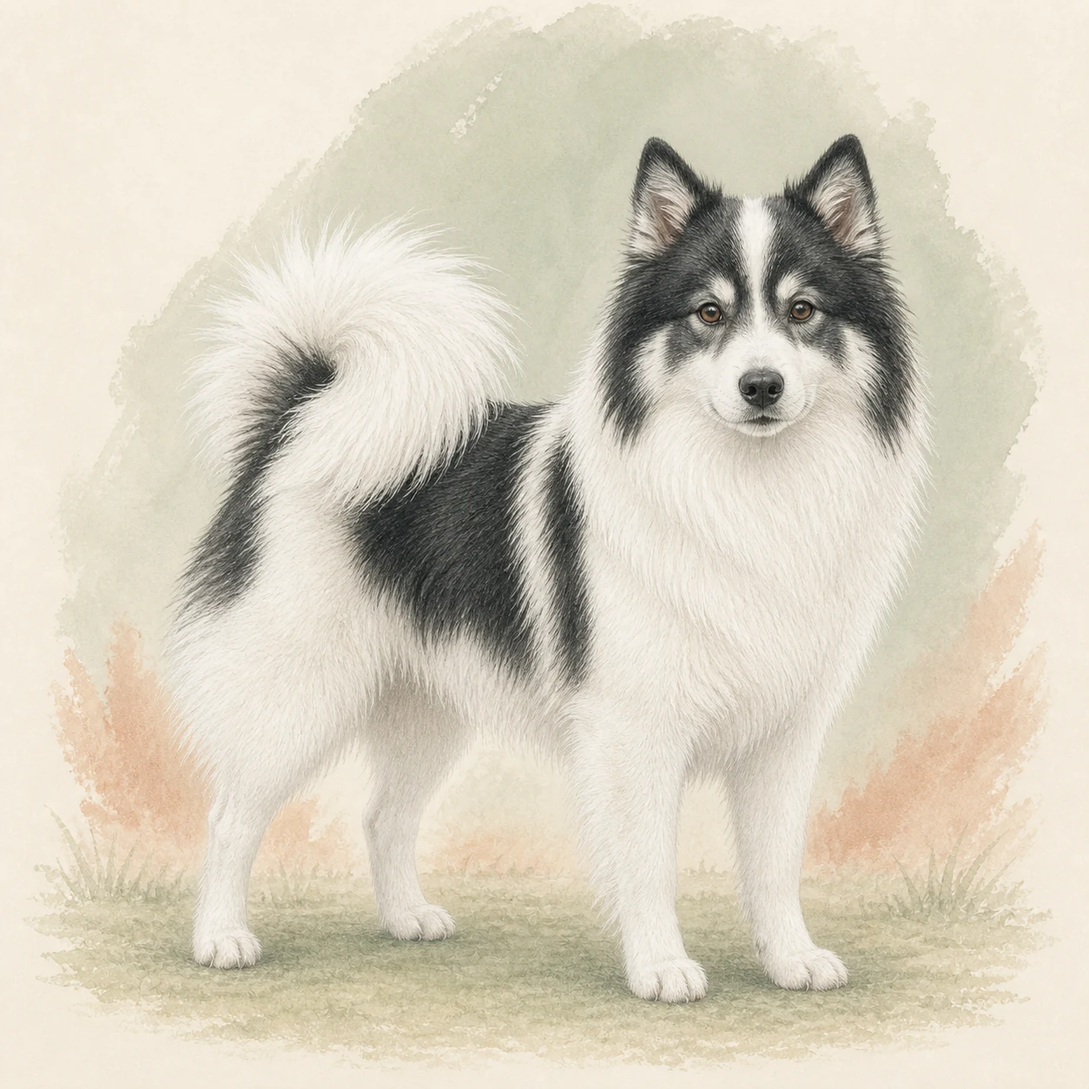
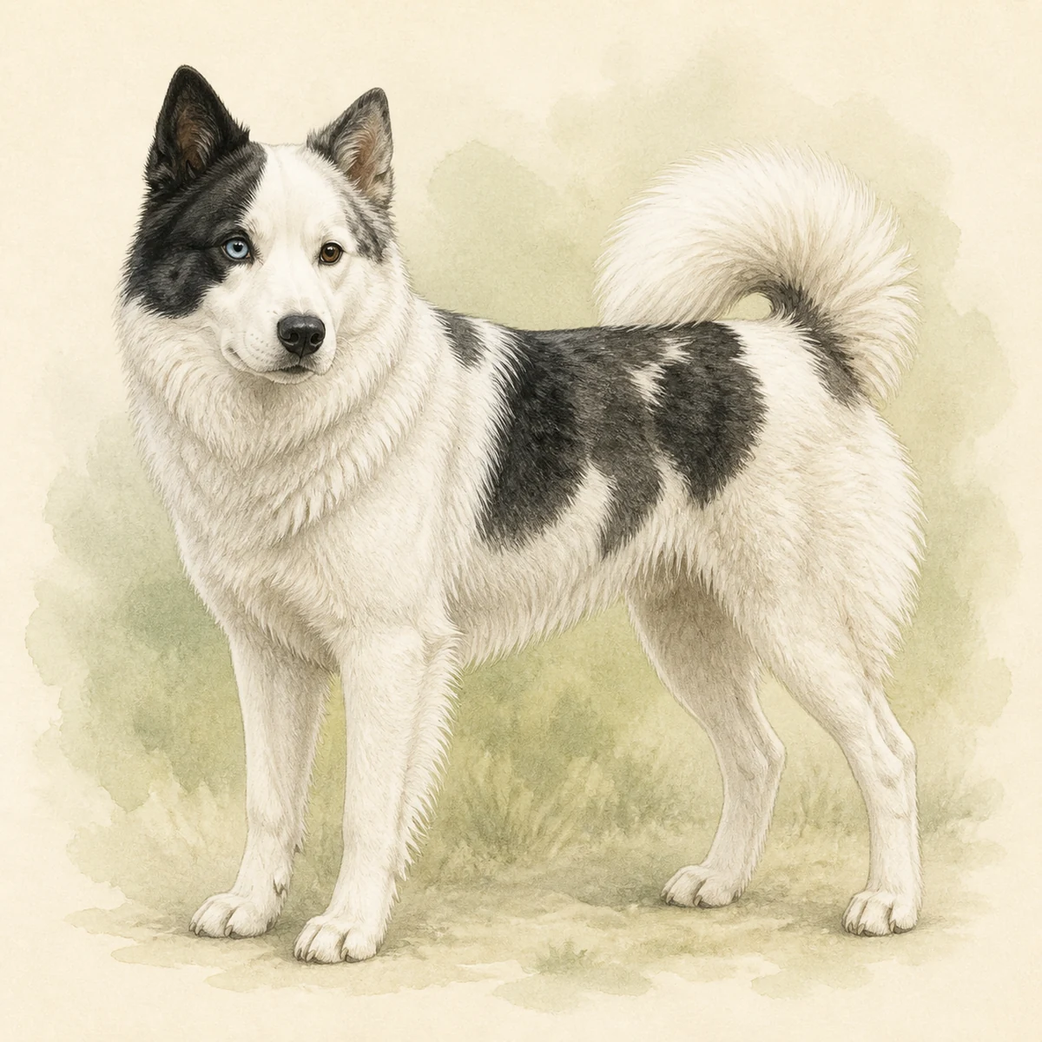
Complete Yakutian Laika breed page

diff --git a/src/content/breeds/detail-batch-k.ts b/src/content/breeds/detail-batch-k.ts
@@ -22,7 +22,7 @@ const seeds: Seed[] = [
   { slug: "kishu", nameKo: "키슈견", nameEn: "Kishu", group: "spitz-primitive", tags: ["일본 사냥견", "산악 추적", "차분한 독립성"], colors: ["#b9b2a5", "#eeece4", "#38332e"], origin: "일본 기이 반도", lineage: "일본 산악 지역의 오래된 사냥견", role: "산에서 멧돼지와 사슴을 추적", size: "중형 · 약 43~55cm, 14~27kg", lifespan: "약 11~13년 (FCI 참고, 개체별 차이 있음)", levels: ["높은 편", "높은 편", "높은 편", "중간", "중간", "낮은 편"], focus: ["추적 본능을 안전한 냄새 찾기와 긴 리드로 전환하세요.", "낯선 자극에서 스스로 판단할 시간을 주고 강요하지 마세요."], related: [["shikoku", "일본 산악 사냥견의 독립성과 활동 반경을 비교해 보세요."], ["basenji", "원시견의 자기 주도성과 사람과의 협력 방식을 살펴보세요."]], fciUrl: "https://www.fci.be/en/nomenclature/KISHU-318.html", akcUrl: "https://www.akc.org/dog-breeds/kishu-ken/" },
   { slug: "shikoku", nameKo: "시코쿠견", nameEn: "Shikoku", group: "spitz-primitive", tags: ["일본 산악 사냥견", "민첩한 움직임", "추적과 회복"], colors: ["#8f6f57", "#dfd4c3", "#322d29"], origin: "일본 시코쿠", lineage: "시코쿠 산악 지역의 사냥견", role: "험한 지형에서 멧돼지를 추적", size: "중형 · 약 43~55cm, 15~25kg", lifespan: "약 11~13년 (FCI 참고, 개체별 차이 있음)", levels: ["높은 편", "높은 편", "높은 편", "중간", "높은 편", "낮은 편"], focus: ["빠른 방향 전환과 추적을 안전한 공간에서만 허용하세요.", "충분히 움직인 뒤 조용히 회복하는 루틴을 마련하세요."], related: [["shiba", "일본 산악견의 추적과 독립성을 공유하며 체격을 비교해 보세요."], ["akita", "일본 스피츠의 경계와 사람과의 거리 조절을 살펴보세요."]], fciUrl: "https://www.fci.be/en/nomenclature/SHIKOKU-319.html", akcUrl: "https://www.akc.org/dog-breeds/shikoku/" },
   { slug: "canaan-dog", nameKo: "카나안 독", nameEn: "Canaan Dog", group: "spitz-primitive", tags: ["중동 원시견", "영역 경계", "환경 적응"], colors: ["#a37e5c", "#e4d9c9", "#352f2a"], origin: "이스라엘", lineage: "중동에서 자연 선택과 훈련으로 발전한 원시견", role: "가축과 정착지를 지키고 메신저·탐지 작업", size: "중형 · 약 50~60cm, 18~25kg", lifespan: "약 12~15년 (AKC 참고, 개체별 차이 있음)", levels: ["중간", "높은 편", "높은 편", "중간", "높은 편", "낮은 편"], focus: ["낯선 사람과 소리에 대한 경계를 거리와 예측 가능한 루틴으로 관리하세요.", "혼자 쉬는 선택을 존중하되 안전한 호출을 반복하세요."], related: [["basenji", "원시견의 자기 주도성과 환경 경계를 비교해 보세요."], ["korea-jindo-dog", "독립적인 동아시아·중동 원시견의 생활 차이를 살펴보세요."]], fciUrl: "https://www.fci.be/en/nomenclature/CANAAN-DOG-273.html", akcUrl: "https://www.akc.org/dog-breeds/canaan-dog/" },
-  { slug: "yakutian-laika", nameKo: "야쿠티안 라이카", nameEn: "Yakutian Laika", group: "northern-working", tags: ["시베리아 썰매견", "추운 기후", "사람과의 협력"], colors: ["#a08c77", "#e4dfd4", "#332f2a"], origin: "러시아 사하", lineage: "야쿠트 지역의 썰매·사냥 작업견", role: "썰매를 끌고 사냥과 순록 작업을 보조", size: "중형 · 약 53~59cm, 20~30kg", lifespan: "약 10~13년 (FCI 참고, 개체별 차이 있음)", levels: ["높은 편", "높은 편", "중간", "높은 편", "중간", "높은 편"], focus: ["기온이 맞지 않는 계절에는 운동량보다 더위와 발 상태를 우선하세요.", "무리 작업의 협력 욕구를 냄새 찾기와 팀 과제로 연결하세요."], related: [["siberian-husky", "썰매 작업과 지구력을 공유하며 피모와 생활 자극을 비교해 보세요."], ["samoyed", "북부 작업견의 협력과 이중모 관리 부담을 살펴보세요."]], fciUrl: "https://www.fci.be/en/nomenclature/YAKUTIAN-LAIKA-365.html", akcUrl: "https://www.akc.org/dog-breeds/yakutian-laika/" },
+  { slug: "yakutian-laika", nameKo: "야쿠티안 라이카", nameEn: "Yakutian Laika", group: "northern-working", tags: ["시베리아 썰매견", "추운 기후", "사람과의 협력"], colors: ["#a08c77", "#e4dfd4", "#332f2a"], origin: "러시아 사하", lineage: "야쿠트 지역의 썰매·사냥 작업견", role: "썰매를 끌고 사냥과 순록 작업을 보조", size: "중형 · 약 53~59cm, 18~25kg", lifespan: "약 10~13년 (FCI 참고, 개체별 차이 있음)", levels: ["높은 편", "높은 편", "중간", "높은 편", "중간", "높은 편"], focus: ["기온이 맞지 않는 계절에는 운동량보다 더위와 발 상태를 우선하세요.", "무리 작업의 협력 욕구를 냄새 찾기와 팀 과제로 연결하세요."], related: [["siberian-husky", "썰매 작업과 지구력을 공유하며 피모와 생활 자극을 비교해 보세요."], ["samoyed", "북부 작업견의 협력과 이중모 관리 부담을 살펴보세요."]], fciUrl: "https://www.fci.be/en/nomenclature/YAKUTIAN-LAIKA-365.html", akcUrl: "https://www.akc.org/dog-breeds/yakutian-laika/" },
   { slug: "harrier", nameKo: "해리어", nameEn: "Harrier", group: "scent-hound", tags: ["영국 무리 사냥견", "긴 냄새 추적", "지구력"], colors: ["#a87f61", "#e2d8c9", "#38312b"], origin: "영국", lineage: "비글·폭스하운드와 연결된 중형 센트하운드", role: "무리를 이루어 토끼와 작은 사냥감을 냄새로 추적", size: "중형 · 약 48~53cm, 20~27kg", lifespan: "약 12~15년 (AKC 참고, 개체별 차이 있음)", levels: ["높은 편", "높은 편", "중간", "높은 편", "중간", "낮은 편"], focus: ["냄새를 따라가려는 힘을 긴 리드와 울타리로 관리하세요.", "지루하지 않게 냄새 산책과 회복일을 번갈아 주세요."], related: [["beagle", "무리 냄새 추적과 사람 곁 생활의 균형을 비교해 보세요."], ["english-foxhound", "영국 센트하운드의 지구력과 생활 반경을 살펴보세요."]], fciUrl: "https://www.fci.be/en/nomenclature/HARRIER-295.html", akcUrl: "https://www.akc.org/dog-breeds/harrier/" },
   { slug: "english-foxhound", nameKo: "잉글리시 폭스하운드", nameEn: "English Foxhound", group: "scent-hound", tags: ["영국 여우 사냥견", "무리 추적", "넓은 활동 공간"], colors: ["#ab8062", "#e7ddd0", "#3b322c"], origin: "영국", lineage: "영국의 오래된 폭스하운드 계통", role: "무리로 여우 냄새를 따라 넓은 지형을 추적", size: "대형 · 약 58~64cm, 25~34kg", lifespan: "약 10~13년 (AKC 참고, 개체별 차이 있음)", levels: ["높은 편", "높은 편", "중간", "높은 편", "중간", "낮은 편"], focus: ["안전한 울타리와 리드 없이는 냄새 추적을 허용하지 마세요.", "가정에서 충분한 보행과 냄새 활동을 제공할 수 있는지 먼저 확인하세요."], related: [["harrier", "영국 무리 사냥견의 지구력과 냄새 추적을 비교해 보세요."], ["beagle", "작은 체격의 센트하운드와 생활 공간 차이를 살펴보세요."]], fciUrl: "https://www.fci.be/en/nomenclature/ENGLISH-FOXHOUND-159.html", akcUrl: "https://www.akc.org/dog-breeds/english-foxhound/" },
   { slug: "petit-basset-griffon-vendeen", nameKo: "페티 바셋 그리폰 방데앙", nameEn: "Petit Basset Griffon Vendeen", group: "scent-hound", tags: ["프랑스 소형 센트하운드", "거친 털", "끈질긴 추적"], colors: ["#a27d60", "#e3dacd", "#39312b"], origin: "프랑스 방데", lineage: "방데 지역의 작은 거친 털 사냥견", role: "가시덤불과 바위 지형에서 작은 사냥감을 냄새로 추적", size: "소형 · 약 34~38cm, 11~18kg", lifespan: "약 12~14년 (AKC 참고, 개체별 차이 있음)", levels: ["높은 편", "높은 편", "중간", "높은 편", "중간", "높은 편"], focus: ["작은 몸을 과소평가하지 말고 추적과 파기를 안전하게 전환하세요.", "거친 털과 귀에 붙은 이물질을 산책 뒤 확인하세요."], related: [["beagle", "작은 사냥감 냄새 추적과 사람 곁 생활을 비교해 보세요."], ["border-terrier", "거친 지형을 다니는 소형견의 피모와 추적을 살펴보세요."]], fciUrl: "https://www.fci.be/en/nomenclature/PETIT-BASSET-GRiffON-VENDEEN-163.html", akcUrl: "https://www.akc.org/dog-breeds/petit-basset-griffon-vendeen/" },
@@ -91,5 +91,43 @@ const makeBreed = (seed: Seed): Breed => ({
   ],
 });
 
+const customizeBreed = (breed: Breed): Breed => {
+  if (breed.slug !== "yakutian-laika") return breed;
+
+  return {
+    ...breed,
+    tagline: "썰매와 사냥, 순록 작업을 함께한 북부 작업견의 협력과 생활 조건을 살펴보세요.",
+    historyVisual: {
+      src: "/illustrations/v3/yakutian-laika-history.webp",
+      alt: "겨울 강길에서 야쿠티안 라이카 개썰매 팀과 함께 물자를 옮기는 사하 지역 사람을 그린 편집 삽화",
+    },
+    identity: {
+      ...breed.identity,
+      originalRole: "썰매·사냥 작업견",
+      size: "중형 · 약 53~59cm, 18~25kg",
+    },
+    behaviorClues: {
+      originalRole: "사하 지역의 혹독한 환경에서 썰매를 끌고 사냥과 순록 작업을 보조한 다목적 작업견입니다.",
+      today: "사람의 움직임과 신호에 주의를 기울이거나, 달리고 찾고 끄는 활동에 적극적으로 참여하는 모습이 보일 수 있습니다.",
+      guardianContext: "높은 활동 욕구와 풍성한 이중모를 함께 고려해 과제와 회복, 더운 계절의 실내 환경을 준비하세요. 반응은 개체마다 다릅니다.",
+    },
+    story: {
+      opening: "야쿠티안 라이카는 러시아 북동부 사하의 혹독한 환경에서 썰매를 끌고 사냥을 돕던 토착 작업견으로 발전했습니다. 사람과 물자를 먼 거리로 옮기고, 사냥과 순록 작업을 보조하며 북부 지역의 생활을 함께했습니다.",
+      roleToHome: "20세기 중반 운송 방식과 지역 생활이 바뀌며 개체 수가 크게 줄었지만, 1990년대부터 보존과 복원 노력이 이어졌습니다. 풍성한 이중모와 탄탄하고 민첩한 몸, 등 위로 말리는 꼬리는 추운 환경에서 다양한 일을 해온 배경을 보여줍니다.",
+      reality: "추운 지역의 아름다운 외형만으로 선택하기보다 높은 활동량과 협력 과제, 계절성 털갈이와 더운 날의 생활 환경을 함께 준비해야 합니다.",
+    },
+    careNotes: [
+      "걷기만 반복하기보다 냄새 찾기와 방향 신호처럼 몸과 판단을 함께 쓰는 과제를 번갈아 제공하세요.",
+      "두꺼운 이중모를 피부 가까이까지 규칙적으로 빗고, 더운 계절에는 활동 시간과 실내 온도를 조절하세요.",
+    ],
+    sources: [
+      { title: "FCI Standard No. 365 — Yakutian Laika", organization: "Fédération Cynologique Internationale", url: "https://www.fci.be/Nomenclature/Standards/365g05-en.pdf", checkedAt: "2026-08-20" },
+      { title: "Yakutian Laika Dog Breed Information", organization: "American Kennel Club", url: "https://www.akc.org/dog-breeds/yakutian-laika/", checkedAt: "2026-08-20" },
+      { title: "Yakutian Laika Breed History", organization: "American Kennel Club", url: "https://www.akc.org/expert-advice/dog-breeds/yakutian-laika-breed-history/", checkedAt: "2026-08-20" },
+      { title: "Breed Weight Chart", organization: "American Kennel Club", url: "https://www.akc.org/expert-advice/nutrition/breed-weight-chart/", checkedAt: "2026-08-20" },
+    ],
+  };
+};
+
 export const detailBatchKSlugs = seeds.map((seed) => seed.slug);
-export const detailBatchK = seeds.map(makeBreed) satisfies Breed[];
+export const detailBatchK = seeds.map(makeBreed).map(customizeBreed) satisfies Breed[];

diff --git a/src/content/breed-features/data.ts b/src/content/breed-features/data.ts
@@ -121,6 +121,36 @@ export const breedFeatureSets = breedFeatureCollectionSchema.parse([
       },
     ],
   },
+  {
+    slug: "yakutian-laika",
+    intro: "사람과 함께 움직이는 방식, 몸과 판단을 쓰는 활동, 풍성한 이중모의 계절 관리를 먼저 살펴보세요.",
+    cards: [
+      {
+        eyebrow: "사람과의 협력",
+        title: "사람 가까이에서 함께 움직이려 해요.",
+        description: "사람과 가까이 지내고 함께 역할을 수행하는 데 적극적으로 참여할 수 있어요. 산책과 짧은 신호 놀이를 함께하며 보호자에게 시선을 돌리고 차분히 기다리는 경험도 만들어주세요.",
+        image: "/illustrations/v4/yakutian-laika-feature-cooperation.webp",
+        alt: "현대 공원에서 벤치에 앉은 보호자의 손 신호를 바라보는 성견 야쿠티안 라이카 삽화",
+        sourceUrls: ["https://www.fci.be/Nomenclature/Standards/365g05-en.pdf", "https://www.akc.org/dog-breeds/yakutian-laika/"],
+      },
+      {
+        eyebrow: "활동과 과제",
+        title: "움직임과 생각할 일을 함께 채워야 해요.",
+        description: "활동량과 에너지가 높은 편이라 걷기만 길게 반복하기보다 냄새 찾기, 방향 신호, 안전한 하네스 운동처럼 몸과 판단을 함께 쓰는 과제를 번갈아 제공해주세요.",
+        image: "/illustrations/v4/yakutian-laika-feature-purposeful-activity.webp",
+        alt: "숲길에서 몸에 맞는 하네스를 착용하고 보호자와 함께 달리는 성견 야쿠티안 라이카 삽화",
+        sourceUrls: ["https://www.akc.org/dog-breeds/yakutian-laika/", "https://www.akc.org/expert-advice/dog-breeds/yakutian-laika-breed-history/"],
+      },
+      {
+        eyebrow: "이중모와 계절",
+        title: "풍성한 이중모는 털갈이와 더위 준비가 필요해요.",
+        description: "굵은 겉털과 촘촘한 속털이 추운 환경을 견디도록 발달한 견종이에요. 피부 가까이까지 규칙적으로 빗고, 더운 계절에는 선선한 시간대의 활동과 편안한 실내 온도를 마련해주세요.",
+        image: "/illustrations/v4/yakutian-laika-feature-double-coat.webp",
+        alt: "선선한 실내에서 풍성한 이중모를 브러시로 관리받는 성견 야쿠티안 라이카 삽화",
+        sourceUrls: ["https://www.fci.be/Nomenclature/Standards/365g05-en.pdf", "https://www.akc.org/expert-advice/dog-breeds/yakutian-laika-breed-history/"],
+      },
+    ],
+  },
 ]);
 
 const breedFeaturesBySlug = new Map(breedFeatureSets.map((featureSet) => [featureSet.slug, featureSet]));

diff --git a/src/content/breeds/data.ts b/src/content/breeds/data.ts
@@ -231,8 +231,8 @@ const draftBreeds = [
       guardianContext: "안전한 리드와 울타리, 다른 동물과의 실제 반응을 확인하되 품종만으로 입을 사용하는 행동이나 공격성을 단정하지 않아요.",
     },
     story: {
-      opening: "그레이하운드는 먼 곳의 움직임을 눈으로 발견하고 빠르게 뒤쫓는 시각 하운드로 오랫동안 사람과 함께해 왔습니다. 넓고 트인 지형에서 사냥감을 추적하는 데 필요한 빠른 가속과 긴 보폭, 유연한 몸이 중요하게 여겨졌습니다.",
-      roleToHome: "유럽에서는 오랜 세월 사냥견으로 이어졌고, 근대에는 경주와 다양한 도그 스포츠에서도 속도가 주목받았습니다. 이런 역사는 깊은 가슴과 긴 다리, 가볍고 넓게 뻗는 움직임 같은 그레이하운드의 체형을 이해하는 배경이 됩니다.",
+      opening: "그레이하운드와 닮은 시각 하운드형 개의 흔적은 고대부터 발견될 만큼 오랜 역사를 가지고 있습니다. 이후 유럽, 특히 영국에서 사냥감을 눈으로 발견하고 빠르게 뒤쫓는 시각 하운드로 발전했으며, 넓은 지형에서 사냥감을 추적하는 능력이 중요하게 여겨졌습니다.",
+      roleToHome: "오랜 세월 사냥감을 눈으로 찾아 뒤쫓는 사냥견으로 활약했고, 근대에는 경주에서도 뛰어난 속도로 주목받았습니다. 깊은 가슴과 긴 다리, 유연하고 넓게 뻗는 움직임은 오늘날에도 그레이하운드를 대표하는 특징입니다.",
       reality: "대형견이라는 이유만으로 넓은 마당이면 충분하다고 볼 수 없습니다. 안전한 리드 관리, 추적 본능을 고려한 환경, 체형에 맞는 편안한 휴식 공간이 필요합니다.",
     },
     tendencies: {

diff --git a/src/content/breed-features/data.test.ts b/src/content/breed-features/data.test.ts
@@ -16,7 +16,7 @@ function readVp8Dimensions(bytes: Buffer) {
 
 describe("breed-specific feature cards", () => {
   it("publishes exactly three unique cards for each completed feature breed", () => {
-    expect(breedFeatureSets.map((featureSet) => featureSet.slug)).toEqual(["japanese-spitz", "maltese", "border-collie", "greyhound"]);
+    expect(breedFeatureSets.map((featureSet) => featureSet.slug)).toEqual(["japanese-spitz", "maltese", "border-collie", "greyhound", "yakutian-laika"]);
 
     for (const featureSet of breedFeatureSets) {
       expect(getBreed(featureSet.slug)).toBeDefined();
@@ -66,7 +66,7 @@ describe("breed-specific feature cards", () => {
 
   it("keeps feature coverage separate from the catalog used by discovery", () => {
     expect(breeds).toHaveLength(376);
-    expect(breedFeatureSets).toHaveLength(4);
+    expect(breedFeatureSets).toHaveLength(5);
     expect(getBreedFeatures("samoyed")).toBeUndefined();
   });
 });

diff --git a/src/lib/breed-fact-presentation.test.ts b/src/lib/breed-fact-presentation.test.ts
@@ -48,6 +48,16 @@ describe("breed fact presentation", () => {
     });
   });
 
+  it("separates Yakutian Laika height and weight for the detail summary", () => {
+    const facts = getBreedFactPresentation(getBreed("yakutian-laika")!);
+
+    expect(facts).toMatchObject({
+      size: "53~59cm · 18~25kg",
+      height: "53~59cm",
+      weight: "18~25kg",
+    });
+  });
+
   it("shows compact numeric facts for poodle", () => {
     const poodle = getBreed("poodle")!;
 

diff --git a/src/lib/breed-fact-presentation.ts b/src/lib/breed-fact-presentation.ts
@@ -33,6 +33,11 @@ const breedFactOverrides: Record<string, BreedFactOverride> = {
     height: "69~76cm",
     weight: "27~32kg",
   },
+  "yakutian-laika": {
+    size: "53~59cm · 18~25kg",
+    height: "53~59cm",
+    weight: "18~25kg",
+  },
   samoyed: { size: "48~60cm · 16~30kg" },
   chihuahua: { size: "13~20cm · 2.7kg 이하" },
   "shih-tzu": { size: "23~27cm · 4~7kg" },

diff --git a/docs/project-status.md b/docs/project-status.md
@@ -73,7 +73,7 @@ Dog Atlas(살아 있는 견종도감)는 강아지를 고려하는 사람이 외
 ### 견종 상세 `/breeds/[slug]`
 
 - 376개 상세 모두 말티즈에서 검증한 간결한 정보 위계를 공통으로 사용한다. 첫 화면은 견종명과 대표 이미지부터 보여주고 영문명·지역·등록 상태·한 줄 소개·상단 실행 버튼은 두지 않는다.
-- 재패니즈 스피츠·말티즈·보더콜리·그레이하운드 상세는 견종별 편집 카드 구조를 적용한다. 재패니즈 스피츠는 사람과의 관계·알림 반응·이중모 관리, 말티즈는 사람과의 관계·작은 체구의 생활 안전·긴 피모 관리, 보더콜리는 몰이와 움직임·배움과 과제·활동과 휴식, 그레이하운드는 시각 추적·질주와 휴식·추운 날의 보온을 각각 3개의 4:3 삽화와 설명으로 보여준다. 외형만 반복하거나 근거 수준이 다른 건강 정보는 카드에서 제외하며, 다른 372개 상세는 기존 공통 생활 카드 구성을 유지한다. 다음 확장 기준은 [`breed-feature-card-rollout.md`](breed-feature-card-rollout.md)에 정리돼 있다.
+- 재패니즈 스피츠·말티즈·보더콜리·그레이하운드·야쿠티안 라이카 상세는 견종별 편집 카드 구조를 적용한다. 재패니즈 스피츠는 사람과의 관계·알림 반응·이중모 관리, 말티즈는 사람과의 관계·작은 체구의 생활 안전·긴 피모 관리, 보더콜리는 몰이와 움직임·배움과 과제·활동과 휴식, 그레이하운드는 시각 추적·질주와 휴식·추운 날의 보온, 야쿠티안 라이카는 사람과의 협력·활동과 과제·이중모의 계절 관리를 각각 3개의 4:3 삽화와 설명으로 보여준다. 외형만 반복하거나 근거 수준이 다른 건강 정보는 카드에서 제외하며, 다른 371개 상세는 기존 공통 생활 카드 구성을 유지한다. 다음 확장 기준은 [`breed-feature-card-rollout.md`](breed-feature-card-rollout.md)에 정리돼 있다.
 - 상세 대표 이미지는 정사각형 원본과 프레임 비율을 맞춰 좌우 여백 없이 표시한다. 상세의 주요 섹션도 공통 최대 1440px 컨테이너를 사용하되 본문 문단은 별도의 읽기 폭을 유지한다. 역사 이미지는 원본 비율이 달라도 3:2 장면 프레임을 채우며, 동일 URL의 출처는 목록에 한 번만 표시한다.
 - 상세 하단의 다음 선택 영역은 별도 배경과 설명 문구 없이 `맞이할 준비하기`와 `비교 후보에 담기` 두 행동만 제공한다. 데스크톱은 체크리스트·후보 비교를 표현한 큰 3D 아이콘을 별도 배경 면 없이 위에, 실행 문구를 아래에 둔 동일 폭 카드 버튼을 대표 비교의 900px 폭에 맞춰 가운데 배치하고, 모바일은 한 열로 표시한다. 두 버튼은 같은 밝은 기본색을 사용하고 hover 또는 선택 상태에서 진한 모스색으로 전환한다. 대표 비교 다음의 관련 견종은 유사한 외형·역할·생활 조건을 비교할 수 있는 최대 3마리를 큰 이미지·`한국어 이름 (영문명)`·설명 순서의 카드로 표시하며, 데스크톱은 3열·태블릿과 모바일은 한 열로 배치한다.
 - 이름 속 견종과 호기심 탐험 화면도 탐색 탭·견종 카드·이미지 프레임에 컬러 외곽선을 사용하지 않고 배경 명도와 부드러운 그림자로 선택 상태와 카드 위계를 구분한다.
@@ -172,9 +172,9 @@ Dog Atlas(살아 있는 견종도감)는 강아지를 고려하는 사람이 외
 | non-FCI | 12 | 같은 테스트의 `registryStatus` |
 | 도감 포함 유형 | 국제 등록 368, 국가유산 2, 검증된 랜드레이스 1, 기록된 개체군 3, 디자이너 교배견 2 | 같은 테스트의 `inclusionType` |
 | 카드·역사 이미지 | 상세 376개 모두 로컬 경로 존재 | `data.test.ts`, `visual-assets.test.ts` |
-| 견종별 특징 카드 | 4종·12개, 각 1200×900 WebP | `breed-features/data.test.ts` |
+| 견종별 특징 카드 | 5종·15개, 각 1200×900 WebP | `breed-features/data.test.ts` |
 | 이미지 용량 예산 | 카드 각 550KB 이하, 역사 각 700KB 이하 | `visual-assets.test.ts` |
-| 외형 정밀 검수 | 22종에서 35개 카드·역사 자산 교체 완료, 페키니즈·스카이 테리어·진돗개 유지 확인, 그 외는 미승인 1차 점검 또는 집중 재확인 상태 | [`breed-visual-audit.md`](breed-visual-audit.md) |
+| 외형 정밀 검수 | 23종에서 37개 카드·역사 자산 교체 완료, 페키니즈·스카이 테리어·진돗개 유지 확인, 그 외는 미승인 1차 점검 또는 집중 재확인 상태 | [`breed-visual-audit.md`](breed-visual-audit.md) |
 | 한국어 표시 카피 | 기존 368개 항목 16,157개 문자열 자동 점검; 신규 2개 항목은 배치 테스트·ESLint·화면 검수 완료 | [`korean-copy-audit.md`](korean-copy-audit.md) |
 
 모든 상세 항목의 현재 `contentStatus`는 `mvp-editorial-draft`다. 이는 스키마 검증과 편집·출처 작업이 존재한다는 뜻이지, 수의학 또는 행동 전문가 검수를 완료했다는 뜻이 아니다.
@@ -206,6 +206,8 @@ npm run build
 UI 변경은 추가로 390px, 768px, 1440px, 1920px 폭에서 확인한다. 비교 화면은 최대 1440px까지 확장할 수 있으며, 필수 정보는 모션이나 이미지가 없어도 접근 가능해야 한다.
 
 최근 검증 결과(2026-08-20):
+
+- 2026-08-20 기존 카탈로그의 `야쿠티안 라이카`를 다섯 번째 견종별 완성 구조로 확장했다. 대표 카드의 둥글고 짧은 소형 스피츠형 외형과 역사 장면의 순백색 개·순록 썰매를 공식 표준에 맞는 흰 바탕 검정·회색 반점의 중형 작업견과 개썰매 팀으로 교체하고, 사람과의 협력·활동과 과제·이중모와 계절을 다루는 1200×900 WebP 카드 3개를 추가했다. 크기는 `체고 53~59cm`·`몸무게 18~25kg`으로 분리하고 역할·역사·출처를 보강했으며 다른 371개 상세와 UI 구조는 유지한다. 전체 ESLint·TypeScript·140개 테스트와 400개 경로 프로덕션 빌드를 통과했고, 로컬 상세 응답에서 새 카드·수치·역사·대표 이미지와 기존 공통 카드 미노출을 확인했다.
 
 - 2026-08-20 그레이하운드 상세를 네 번째 견종별 완성 구조로 확장했다. 기존 공통 생활 카드 대신 시각과 추적·질주와 휴식·얇은 피모와 온도를 다루는 1200×900 WebP 삽화 카드 3개를 연결하고 세 장의 피모색을 같은 청회색으로 통일했다. 크기를 `체고 69~76cm`·`몸무게 27~32kg`으로 분리했으며 원래 역할과 역사 두 문단을 시각 하운드의 사냥 배경과 체형의 발전 중심으로 보강했다. 다른 372개 상세와 UI 구조는 유지한다. 전체 ESLint·TypeScript·139개 테스트와 400개 경로 프로덕션 빌드를 통과했고, 로컬 그레이하운드 상세 응답에서 새 카드·수치·역할 문구와 기존 공통 카드 미노출을 확인했다.
 

diff --git a/docs/image-prompts-yakutian-laika-2026-08-20.md b/docs/image-prompts-yakutian-laika-2026-08-20.md
@@ -1,0 +1,54 @@
+# 야쿠티안 라이카 이미지 제작 기록
+
+> 제작일: 2026-08-20
+>
+> 적용 상세: `/breeds/yakutian-laika`
+>
+> 제작 방식: ImageGen 신규 생성, 대표 이미지의 개체 외형을 나머지 네 장의 참조로 사용
+
+## 조사 근거와 외형 기준
+
+- [FCI Standard No. 365](https://www.fci.be/Nomenclature/Standards/365g05-en.pdf): 중형의 탄탄하고 근육질인 몸, 넓은 쐐기형 머리, 아몬드형 눈, 직립 또는 반직립 귀, 흰 바탕의 모든 반점, 촘촘한 이중모와 등 위로 말리는 풍성한 꼬리.
+- [FCI breed page](https://fci.be/en/nomenclature/YAKUTIAN-LAIKA-365.html): 잠정 승인된 북유럽 썰매견, 원산지 러시아.
+- [AKC breed page](https://www.akc.org/dog-breeds/yakutian-laika/): 썰매·사냥·순록 몰이와 사람 곁의 다목적 협력.
+- [AKC breed history](https://www.akc.org/expert-advice/dog-breeds/yakutian-laika-breed-history/): 사하 지역의 운송·사냥 생활, 20세기 감소와 1990년대 복원, 현대 활동.
+- [Yakutian Laika National Breed Club standard commentary](https://yakutian-laika.com/en/content/breed-standard-comments): 털에 가려지지 않는 탄탄한 몸, 머리·가슴·피모의 세부 비율과 작업 기능.
+
+기존 대표 카드는 머리와 몸이 지나치게 둥글고 짧아 작은 허스키형 스피츠로 보였고, 역사 장면은 순백색 개와 순록 썰매가 중심이라 야쿠티안 라이카의 대표 모색과 개썰매 역할이 약했다. 새 세트는 같은 흰 바탕 검정·회색 반점 개체를 모든 장면의 기준으로 사용한다.
+
+## 최종 파일
+
+- 대표: `public/illustrations/v2/yakutian-laika-card.webp` — 1200×1200 WebP
+- 역사: `public/illustrations/v3/yakutian-laika-history.webp` — 1200×800 WebP
+- 사람과의 협력: `public/illustrations/v4/yakutian-laika-feature-cooperation.webp` — 1200×900 WebP
+- 활동과 과제: `public/illustrations/v4/yakutian-laika-feature-purposeful-activity.webp` — 1200×900 WebP
+- 이중모와 계절: `public/illustrations/v4/yakutian-laika-feature-double-coat.webp` — 1200×900 WebP
+
+## 최종 프롬프트 세트
+
+### 대표
+
+`Use case: illustration-story. Create a square Dog Atlas portrait of one adult Yakutian Laika with a medium strong compact athletic body, moderately long legs, broad wedge-shaped head, clearly defined stop, almond eyes, small high-set erect or half-pricked ears, thick straight Arctic double coat and a feathered tail curled in a loose semicircle over the back. Predominantly white with an irregular charcoal patch over the left ear and eye, grey at the right ear base, a broken charcoal-and-grey saddle, white legs and tail tip, and subtle one-blue-one-brown eyes. Warm ivory editorial watercolor and colored pencil. Not a Husky, Malamute, Samoyed, Border Collie, Akita, Pomeranian or wolf; no symmetrical Husky mask, toy proportions, text or watermark.`
+
+### 역사
+
+`Use case: historical-scene. Use the portrait dog as the identity reference. Show four credible Yakutian Laikas pulling a low wooden cargo sled across a snowy river route in Sakha/Yakutia, with a Sakha traveler walking beside the sled. The nearest dog matches the reference; the others have varied white-and-patched coats. Emphasize dogs transporting goods with readable practical traces. Respectful documentary watercolor, wide Arctic landscape, 3:2 safe crop. No harnessed reindeer, Huskies, Malamutes, modern race gear, text or watermark.`
+
+### 사람과의 협력
+
+`Use case: illustration-story. Use the portrait dog as the identity reference. In a modern quiet park after a walk, the adult Yakutian Laika stands close beside a guardian seated on a low bench and looks at a gentle open-hand cue; the leash remains loose. Show calm voluntary connection and accurate medium scale. Editorial watercolor, 4:3 safe crop. No sled, pulling, competition, other dogs, text or watermark.`
+
+### 활동과 과제
+
+`Use case: illustration-story. Use the portrait dog as the identity reference. Show safe modern canicross-style exercise on a cool forest trail: the Yakutian Laika trots in a fitted pulling harness connected by one bungee line to an adult guardian's waist belt. Steady cooperative pace, realistic equipment and full-body anatomy. Editorial watercolor, 4:3 safe crop. No snow sled, race crowd, wheeled vehicle, prey, other dogs, text or watermark.`
+
+### 이중모와 계절
+
+`Use case: illustration-story. Use the portrait dog as the identity reference. Show a calm seasonal grooming session in a cool shaded room: the dog stands on a non-slip mat while a guardian gently brushes the shoulder and side; a small amount of loose undercoat is visible, with an open window and water bowl. No shaving, restraint or excessive fur cloud. Editorial watercolor, 4:3 safe crop, no text or watermark.`
+
+## 검수 결과
+
+- 다섯 장 모두 같은 얼굴 반점·등의 새들 패턴·오드아이와 중형의 탄탄한 체형을 유지한다.
+- 대표는 작은 포메라니안형 실루엣을 벗어났고, 역사 장면은 순록이 아닌 야쿠티안 라이카 팀이 물자 썰매를 끈다.
+- 현대의 협력, 하네스 활동, 이중모 관리 장면은 역사 이미지와 구분된다.
+- 필수 귀·발·꼬리와 장비 연결이 크롭 안에 있고 이미지 안에 글자·워터마크가 없다.

diff --git a/docs/breed-visual-audit.md b/docs/breed-visual-audit.md
@@ -2,7 +2,7 @@
 
 > 최초 점검: 2026-08-11
 >
-> 최근 갱신: 2026-08-11
+> 최근 갱신: 2026-08-20
 >
 > 대상: 도감에 노출되는 카드 일러스트 368종과 교체 후보의 역사 일러스트
 >
@@ -13,7 +13,7 @@
 - 카드 자산 368종은 접촉 시트로 1차 시각 점검했다. 일반 카드 361개와 별도 앞면 카드 7개를 모두 포함했다.
 - 외형 차이가 큰 후보는 원본 해상도로 다시 보고 FCI·국가 켄넬클럽·국가 기관·학술 자료처럼 출처가 분명한 자료와 대조했다.
 - 교체 대상은 카드와 역사 장면을 한 묶음으로 확인하고, 같은 잘못된 형태가 반복되면 두 자산을 함께 교체했다.
-- 2026-08-11 현재 **22종에서 총 35개 카드·역사 자산 교체를 완료**했다. 이는 368종 전체에 대한 전문 컨포메이션 승인을 뜻하지 않는다.
+- 2026-08-20 현재 **23종에서 총 37개 카드·역사 자산 교체를 완료**했다. 이는 전체 도감에 대한 전문 컨포메이션 승인을 뜻하지 않는다.
 - 기존 자동 테스트는 경로, WebP 형식, 크기, 중복 여부를 확인한다. 귀·머리·체형·피모·꼬리·모색의 정확성은 이 문서의 별도 검수 절차를 따른다.
 
 ## 상태 기준
@@ -25,7 +25,7 @@
 | 집중 재확인 | 오류로 확정할 단계는 아니지만 대표 특징이 약하거나 근거 자료가 제한적인 상태 |
 | 1차 점검 | 큰 오류는 즉시 발견되지 않았지만 개별 출처 검증은 아직 완료되지 않은 상태 |
 
-## 교체 완료 22종
+## 교체 완료 23종
 
 | 견종 | 기존 그림의 핵심 문제 | 새 그림에서 우선한 특징 | 비교 근거 |
 |---|---|---|---|
@@ -39,6 +39,7 @@
 | 사우스 러시안 셰퍼드 도그 (`south-russian-shepherd-dog`) | 얼굴·다리 윤곽이 너무 또렷하고 피모가 짧음 | 눈과 얼굴, 몸, 다리, 꼬리를 덮는 거칠고 긴 셔기 코트와 낮은 갈고리형 꼬리 | [FCI 표준 326](https://www.fci.be/nomenclature/Standards/326g01-en.pdf) |
 | 베들링턴 테리어 (`bedlington-terrier`) | 둥근 얼굴과 긴 곱슬 귀의 푸들처럼 보여 고유한 머리선과 체형이 사라짐 | 끊김 없는 배·쐐기형 머리선, 귀 끝의 술, 아치형 허리와 복부선, 낮게 이어지는 가는 꼬리 | [FCI 표준 9](https://www.fci.be/Nomenclature/Standards/009g03-en.pdf) |
 | 노르웨이안 룬데훈트 (`norwegian-lundehund`) | 일반적인 스피츠와 구분되지 않고 기능성 여섯 발가락이 보이지 않음 | 작고 가벼운 직사각형 체형, 적갈·흰 모색, 접을 수 있는 귀, 양 앞발의 기능성 여섯 발가락 | [FCI 표준 265](https://www.fci.be/Nomenclature/Standards/265g05-en.pdf) |
+| 야쿠티안 라이카 (`yakutian-laika`) | 대표 카드는 머리와 몸이 지나치게 둥글고 짧아 작은 허스키형 스피츠처럼 보였고, 역사 장면은 순백색 개와 순록 썰매가 중심이라 고유 외형과 개썰매 역할이 약함 | 중형의 탄탄한 체형, 넓은 쐐기형 머리, 흰 바탕의 검정·회색 반점, 풍성한 이중모와 등 위로 말리는 꼬리, 물자를 옮기는 야쿠티안 라이카 개썰매 팀 | [FCI 표준 365](https://www.fci.be/Nomenclature/Standards/365g05-en.pdf) |
 | 마렘마 앤 아브루초 셰퍼드 (`maremma-sheepdog`) | 카드의 꼬리가 등에 단단히 말려 표준의 평상시 꼬리와 충돌하고 머리가 리트리버에 가까움 | 크고 소박한 백색 가축보호견 체형, 넓은 원뿔형 머리, 작은 V형 늘어진 귀, 비절 아래로 낮게 늘어진 꼬리 | [FCI 표준 201](https://www.fci.be/Nomenclature/Standards/201g01-en.pdf) |
 
 교체 파일은 각 slug를 기준으로 아래 두 경로에 있다.

diff --git a/docs/breed-feature-card-rollout.md b/docs/breed-feature-card-rollout.md
@@ -2,8 +2,8 @@
 
 > 상태: **소규모 확장 진행**
 > 마지막 갱신: 2026-08-20
-> 현재 구현: 재패니즈 스피츠·말티즈·보더콜리·그레이하운드 4종
-> 남은 대상: 372개 상세 항목
+> 현재 구현: 재패니즈 스피츠·말티즈·보더콜리·그레이하운드·야쿠티안 라이카 5종
+> 남은 대상: 371개 상세 항목
 
 ## 1. 다음 작업자가 가장 먼저 알아야 할 것
 
@@ -181,6 +181,8 @@ src/content/breed-features/
 두 번째 확장 대상으로 보더콜리를 추가했다. 세 카드는 움직임을 읽는 몰이 행동, 빠른 학습에 맞는 협력 과제, 활동 뒤 차분히 쉬는 리듬을 다룬다. 제작 근거와 프롬프트는 [`image-prompts-border-collie-features-2026-08-20.md`](image-prompts-border-collie-features-2026-08-20.md)에 기록했다.
 
 세 번째 확장 대상으로 그레이하운드를 추가했다. 세 카드는 현대 산책에서의 시각 추적, 안전한 공간에서 짧게 속도를 내고 쉬는 리듬, 얇은 피모에 맞는 추운 날의 보온을 다룬다. 제작 근거와 프롬프트는 [`image-prompts-greyhound-features-2026-08-20.md`](image-prompts-greyhound-features-2026-08-20.md)에 기록했다.
+
+네 번째 확장 대상으로 야쿠티안 라이카를 추가했다. 세 카드는 사람과의 협력, 몸과 판단을 함께 쓰는 활동, 풍성한 이중모의 계절 관리를 다룬다. 기존 대표·역사 이미지도 실제 표준 외형과 역할에 맞춰 함께 교체했으며 제작 근거와 프롬프트는 [`image-prompts-yakutian-laika-2026-08-20.md`](image-prompts-yakutian-laika-2026-08-20.md)에 기록했다.
 
 ## 10. 완료 조건
 
